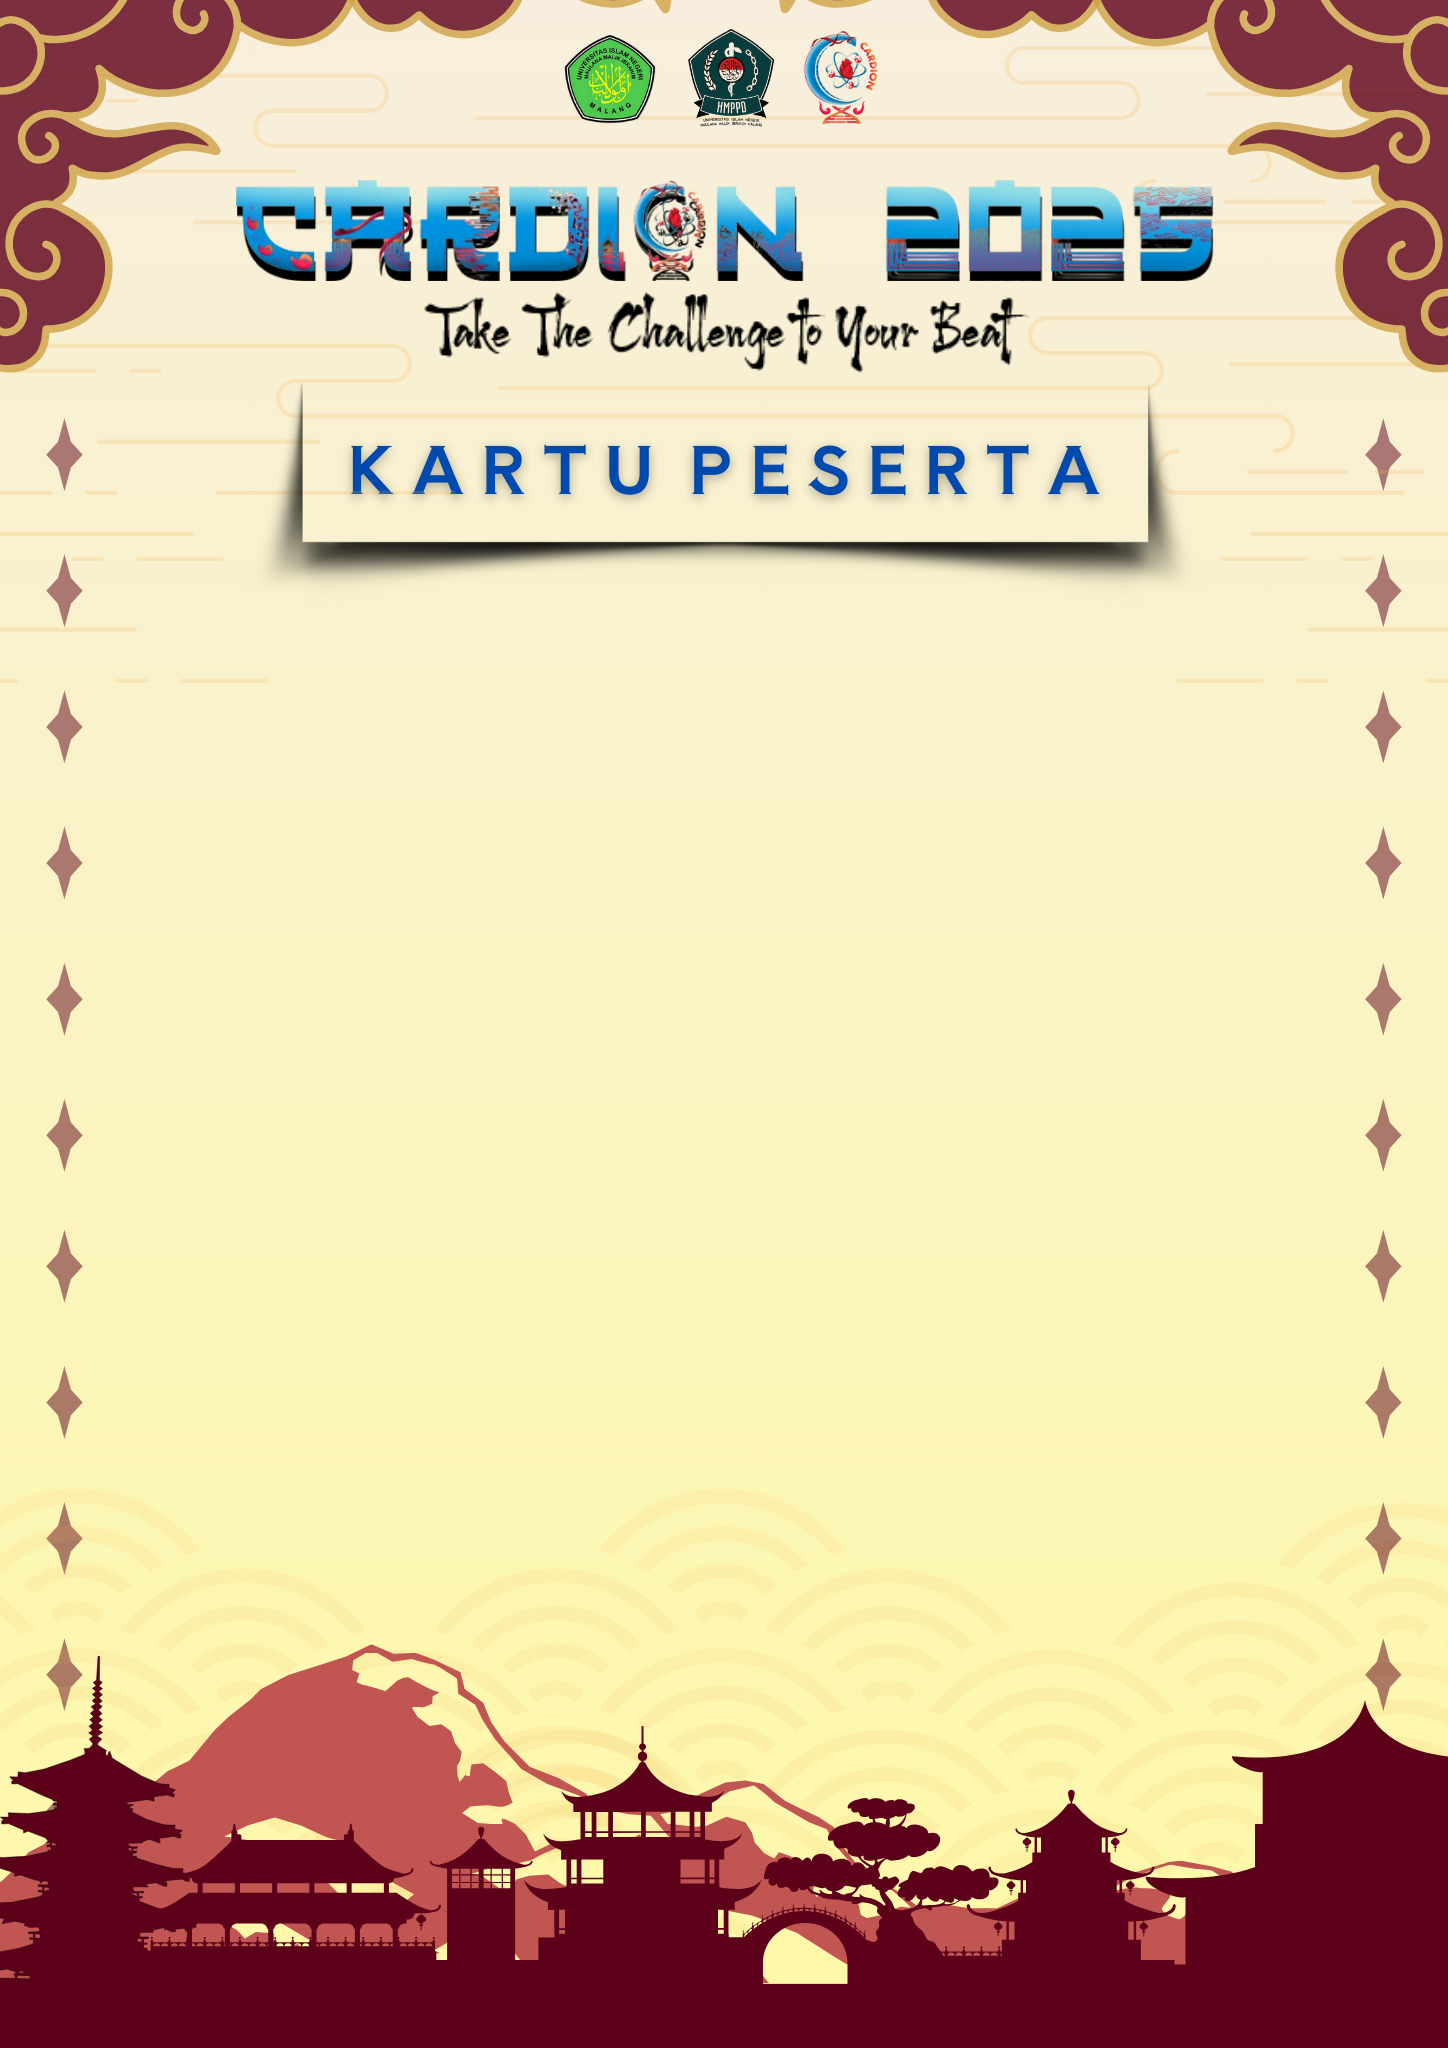
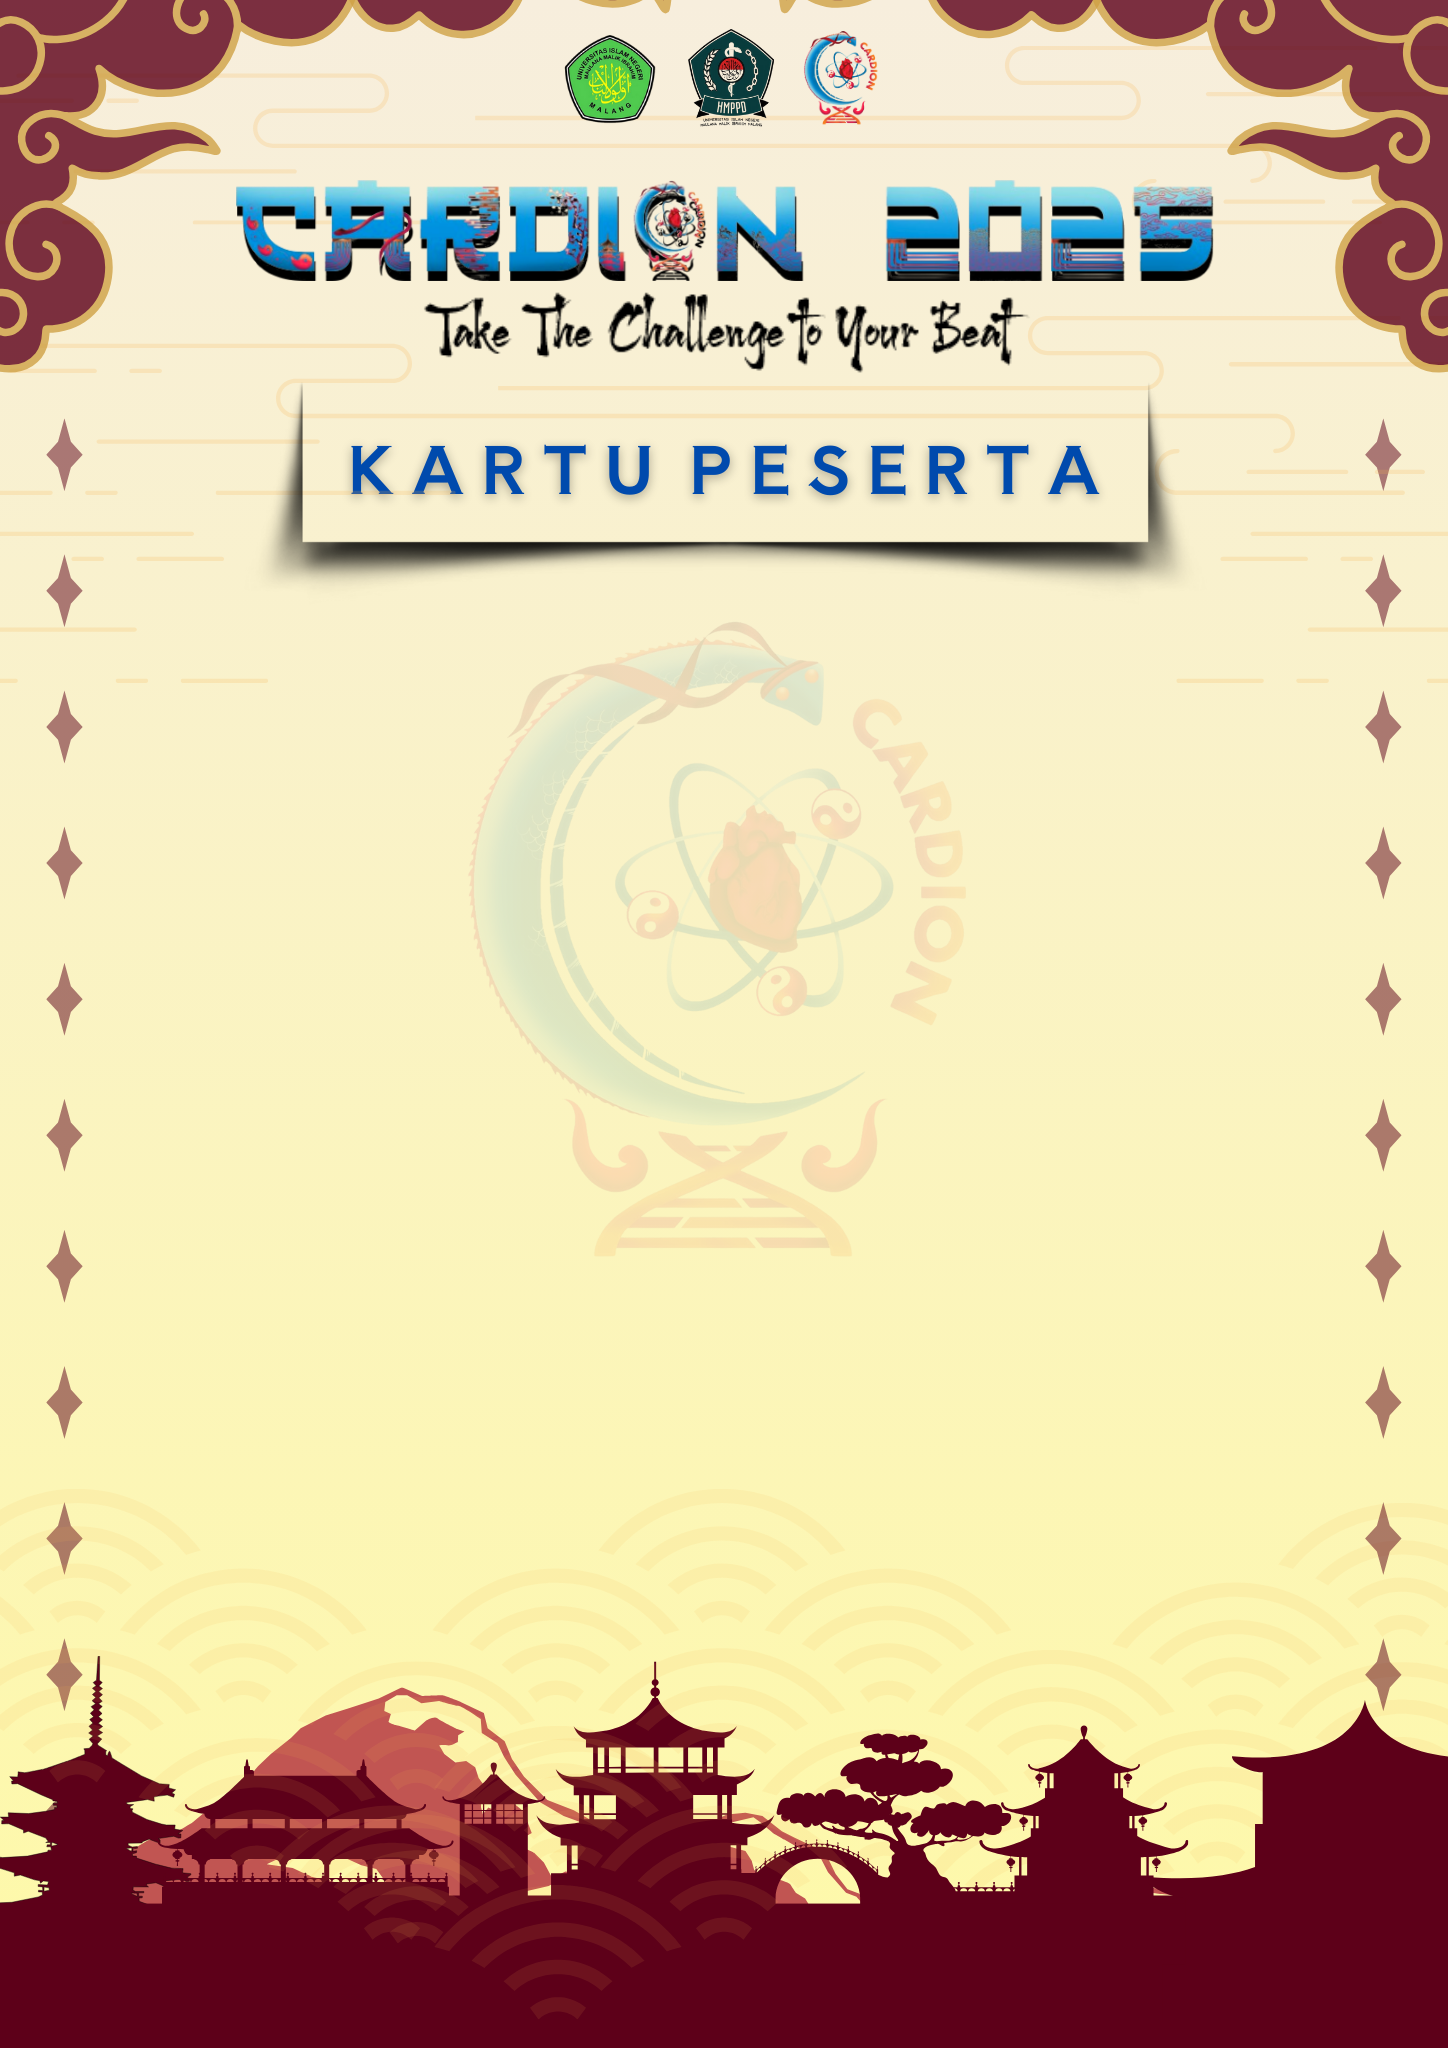
Fix_Sertif_Kartu

diff --git a/resources/views/olimpiade/cetak_kartu/kartu.blade.php b/resources/views/olimpiade/cetak_kartu/kartu.blade.php
@@ -2,12 +2,9 @@
 <html lang="en">
 
 <head>
-    {{--
-    <meta charset="UTF-8"> --}}
-    <meta http-equiv="Content-Type" content="text/html; charset=utf-8" />
+    <meta charset="UTF-8">
     <meta name="viewport" content="width=device-width, initial-scale=1.0">
     <title>Participant Card</title>
-    {{-- @vite('resources/css/app.css') --}}
     <style>
         @font-face {
             font-family: 'Andalus';
@@ -21,17 +18,17 @@
 
         .card {
             width: 768px;
-            height: 1086px;
-            background-image: url("{{ asset('img/kartu-peserta.png') }}");
+            height: 1100px;
+            background-image: url('{{ asset('img/kartu_peserta.png') }}');
             background-size: cover;
             position: relative;
+            padding: 4rem;
+            box-sizing: border-box;
         }
 
         .content {
-            width: 100%;
             display: flex;
             align-items: center;
-            padding: 4rem
         }
 
         .content div {
@@ -41,12 +38,13 @@
         }
 
         .top-content {
+            margin-top: 240px;
             display: flex;
             gap: 0.75rem;
         }
 
         .content p {
-            margin: 5px 0;
+            margin: 0.5px 0;
         }
 
         .top-data {
@@ -64,33 +62,46 @@
             padding: 10px;
             color: #ffffff;
         }
+
+        @media print {
+            body {
+                -webkit-print-color-adjust: exact;
+                print-color-adjust: exact;
+            }
+
+            .card {
+                background-image: url('{{ asset('img/kartu_peserta.png') }}') !important;
+                -webkit-print-color-adjust: exact;
+                print-color-adjust: exact;
+            }
+        }
     </style>
 </head>
 
-<body>
+<body onload="window.print()">
     <div class="card">
         <div class="content">
             <div>
                 <div class="top-content">
                     <div>
-                        {!! QrCode::size(100)->generate('youtube.com') !!}
+                        {!! QrCode::size(100)->generate($url) !!}
                     </div>
                     <div class="top-data">
-                        <p>Nomer Peserta: {{ $peserta->nomor }}</p>
-                        <p>Email Pendaftar: {{ $peserta->email }}</p>
-                        <p>Cabang Wilayah: {{ $peserta->cabangs->cabang }}/{{$peserta->rayons->rayon}}</p>
+                        <p>Nomer Peserta| {{ $peserta->nomor }}</p>
+                        <p>Email Pendaftar| {{ $peserta->email }}</p>
+                        <p>Cabang Wilayah| {{ $peserta->cabangs->cabang }}/{{$peserta->rayons->rayon}}</p>
                     </div>
                 </div>
-                <p>Nama Tim: {{$peserta->nama_team}}</p>
-                <p>Asal Sekolah: {{ $peserta->sekolah }}</p>
-                <p>Alamat Sekolah: {{ $peserta->alamat_sekolah}}</p>
-                <p>Nama Ketua: {{ $peserta->nama }}</p>
-                <p>Email Ketua: {{ $peserta->email }}</p>
-                <p>Nomer Telpon/Ponsel Ketua: {{ $peserta->telepon }}</p>
-                <p>Nama Anggota 1: {{ $peserta->anggota_pertama }}</p>
-                <p>Nomer Telpon/Ponsel Anggota 1: {{ $peserta->telepon_anggota_pertama }}</p>
-                <p>Nama Anggota 2: {{ $peserta->anggota_kedua }}</p>
-                <p>Nomer Telpon/Ponsel Anggota 2: {{ $peserta->telepon_anggota_kedua }}</p>
+                <p>Nama Tim| {{$peserta->nama_team}}</p>
+                <p>Asal Sekolah| {{ $peserta->sekolah }}</p>
+                <p>Alamat Sekolah| {{ $peserta->alamat_sekolah}}</p>
+                <p>Nama Ketua| {{ $peserta->nama }}</p>
+                <p>Email Ketua| {{ $peserta->email }}</p>
+                <p>Nomer Telpon/Ponsel Ketua| {{ $peserta->telepon }}</p>
+                <p>Nama Anggota 1| {{ $peserta->anggota_pertama }}</p>
+                <p>Nomer Telpon/Ponsel Anggota 1| {{ $peserta->telepon_anggota_pertama }}</p>
+                <p>Nama Anggota 2| {{ $peserta->anggota_kedua }}</p>
+                <p>Nomer Telpon/Ponsel Anggota 2| {{ $peserta->telepon_anggota_kedua }}</p>
             </div>
         </div>
         <p class="bottom-content">Harap diperhatikan kepada seluruh peserta untuk

diff --git a/app/Http/Controllers/user/olimpiade/CetakKartuController.php b/app/Http/Controllers/user/olimpiade/CetakKartuController.php
@@ -6,6 +6,8 @@ use App\Http\Controllers\Controller;
 use App\Models\pesertas;
 use Illuminate\Support\Facades\Auth;
 
+use function Ramsey\Uuid\v1;
+
 class CetakKartuController extends Controller
 {
     public function index()
@@ -15,18 +17,12 @@ class CetakKartuController extends Controller
         $peserta = Auth::guard('peserta')->user();
         return view('olimpiade.cetak_kartu.cetak-kartu', compact('title', 'slug', 'peserta'));
     }
-
-    public function cetak()
-    {
-        ini_set('max_execution_time', 300); // 300 seconds = 5 minutes
-        ini_set('memory_limit', '512M'); // Set memory limit to 512M
-
+    
+    public function cetak(){
         $peserta = Auth::guard('peserta')->user();
         $url = route('user.kartu_peserta', $peserta->id_peserta);
-        $pdf = \PDF::loadView('olimpiade.cetak_kartu.kartu', compact('peserta', 'url'));
-        return $pdf->stream('kartu-peserta.pdf');
+        return view('olimpiade.cetak_kartu.kartu', compact('peserta', 'url'));
     }
-
 
     public function show_peserta(pesertas $pesertas)
     {

diff --git a/resources/views/components/navbar-u.blade.php b/resources/views/components/navbar-u.blade.php
@@ -35,7 +35,7 @@
             <a href="{{route('user.cetak_kartu')}}"
                 class="{{ Str::of(url()->current())->contains('cetak-kartu') ? 'bg-gray-900 text-white' : 'text-gray-600 hover:bg-gray-700 hover:text-white'}} rounded-md px-3 py-2 text-sm font-medium"
                 aria-current="{{ Str::of(url()->current())->contains('cetak-kartu') ? 'page' : false }}">Cetak Kartu</a>
-            <a href="{{ Str::of(url()->current())->contains('olimpiade') ? '/olimpiade/sertifikat' : '/public-poster/sertifikat' }}"
+            <a href="{{route('user.sertifikat')}}"
                 class="{{ Str::of(url()->current())->contains('sertifikat') ? 'bg-gray-900 text-white' : 'text-gray-600 hover:bg-gray-700 hover:text-white'}} rounded-md px-3 py-2 text-sm font-medium"
                 aria-current="{{ Auth::guard('peserta')->user()->event == 'olimpiade' ? 'page' : false }}">Sertifikat</a>
             @if(Auth::guard('peserta')->user()->event == 'olimpiade')

diff --git a/routes/web.php b/routes/web.php
@@ -198,7 +198,7 @@ Route::group(['as' => 'user.', 'prefix' => '/user'], function () {
         Route::get('/kartu/peserta/{pesertas}', [CetakKartuController::class, 'show_peserta'])->name('kartu_peserta');
         // Sertifikat
         Route::get('/sertifikat', [SertifikatController::class, 'index'])->name('sertifikat');
-        Route::get('/sertifikat/cetak', [SertifikatController::class, 'cetak'])->name('sertifikat_process');
+        Route::get('/sertifikat/cetak', [SertifikatController::class, 'cetak'])->name('sertifikat_cetak');
         Route::get('/sertifikat/peserta/{pesertas}', [SertifikatController::class, 'show_peserta'])->name('sertifikat_peserta');
     });
 });

diff --git a/app/Http/Controllers/user/olimpiade/SertifikatController.php b/app/Http/Controllers/user/olimpiade/SertifikatController.php
@@ -18,15 +18,9 @@ class SertifikatController extends Controller
 
     public function cetak()
     {
-        ini_set('max_execution_time', 300); // 300 seconds = 5 minutes
-        ini_set('memory_limit', '512M'); // Set memory limit to 512M
-
         $peserta = Auth::guard('peserta')->user();
-        $url = route('user.sertifikat_peserta', $peserta->id_peserta);
-        $pdf = \PDF::loadView('olimpiade.sertifikat.cetak-sertifikat', compact('peserta', 'url'));
-        return $pdf->stream('sertifikat-peserta.pdf');
+        return view('olimpiade.sertifikat.cetak-sertifikat', compact('peserta'));
     }
-
 
     public function show_peserta(pesertas $pesertas)
     {

diff --git a/resources/views/olimpiade/sertifikat/sertifikat.blade.php b/resources/views/olimpiade/sertifikat/sertifikat.blade.php
@@ -9,7 +9,7 @@
                 Silahkan mengunduh sertifikat di bawah ini
             </h2>
             <button class="mt-5">
-                <a href="/olympiad/sertifikat/view" class="btn-indigo">
+                <a href="{{route('user.sertifikat_cetak')}}" class="btn-indigo" target="_blank">
                     <i class="fad fa-download mr-2 leading-none"></i>
                     Download E-Sertifikat
                 </a>

diff --git a/resources/views/olimpiade/cetak_kartu/cetak-kartu.blade.php b/resources/views/olimpiade/cetak_kartu/cetak-kartu.blade.php
@@ -72,7 +72,7 @@
 
         <div class="card-footer">
             <button>
-                <a href="{{route('user.cetak_kartu_process')}}" class="btn-indigo">
+                <a href="{{route('user.cetak_kartu_process')}}" class="btn-indigo" target="_blank">
                     <i class="fad fa-download mr-2 leading-none"></i>
                     Download Kartu Peserta</a>
             </button>

diff --git a/resources/views/olimpiade/sertifikat/cetak-sertifikat.blade.php b/resources/views/olimpiade/sertifikat/cetak-sertifikat.blade.php
@@ -11,7 +11,7 @@
 <body>
     <div class="w-[1367px] h-[960px] bg-sertifikat-peserta bg-cover relative font-andalus">
         <div class="absolute text-center w-full pl-64 pt-4 top-80 text-4xl ">
-            <p>Name</p>
+            <p>{{$peserta->nama}}</p>
         </div>
     </div>
 </body>
